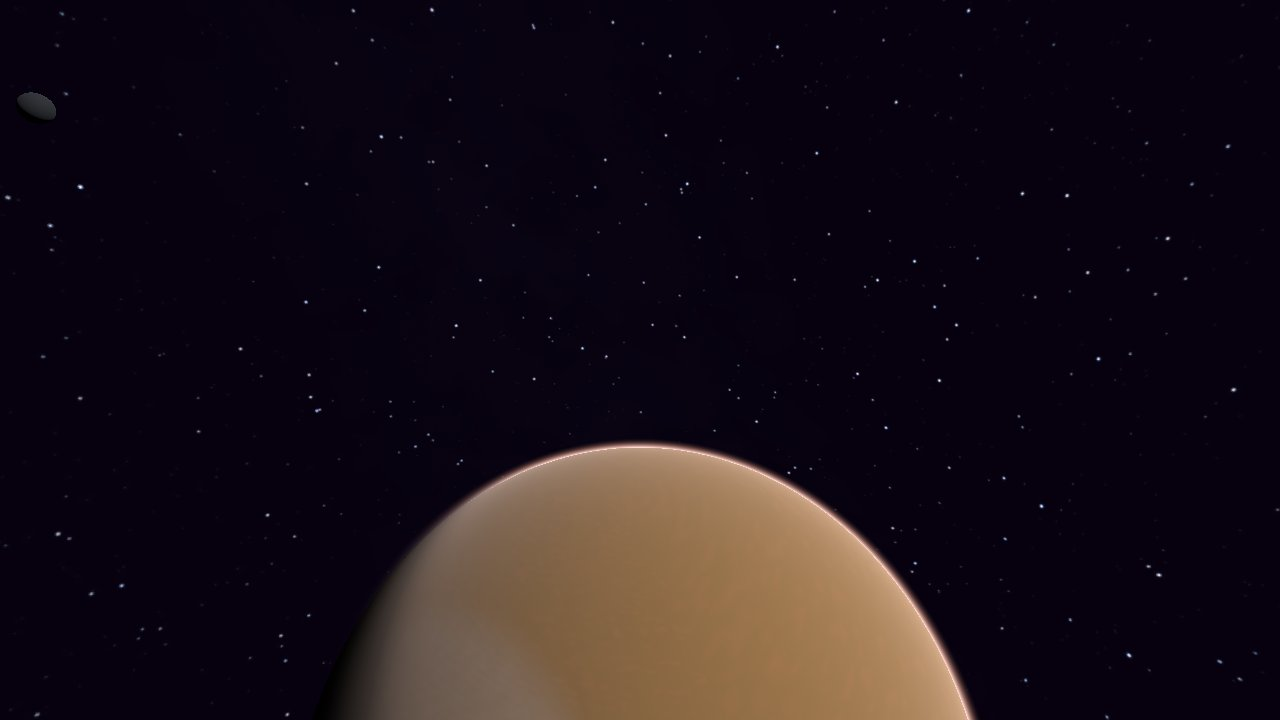
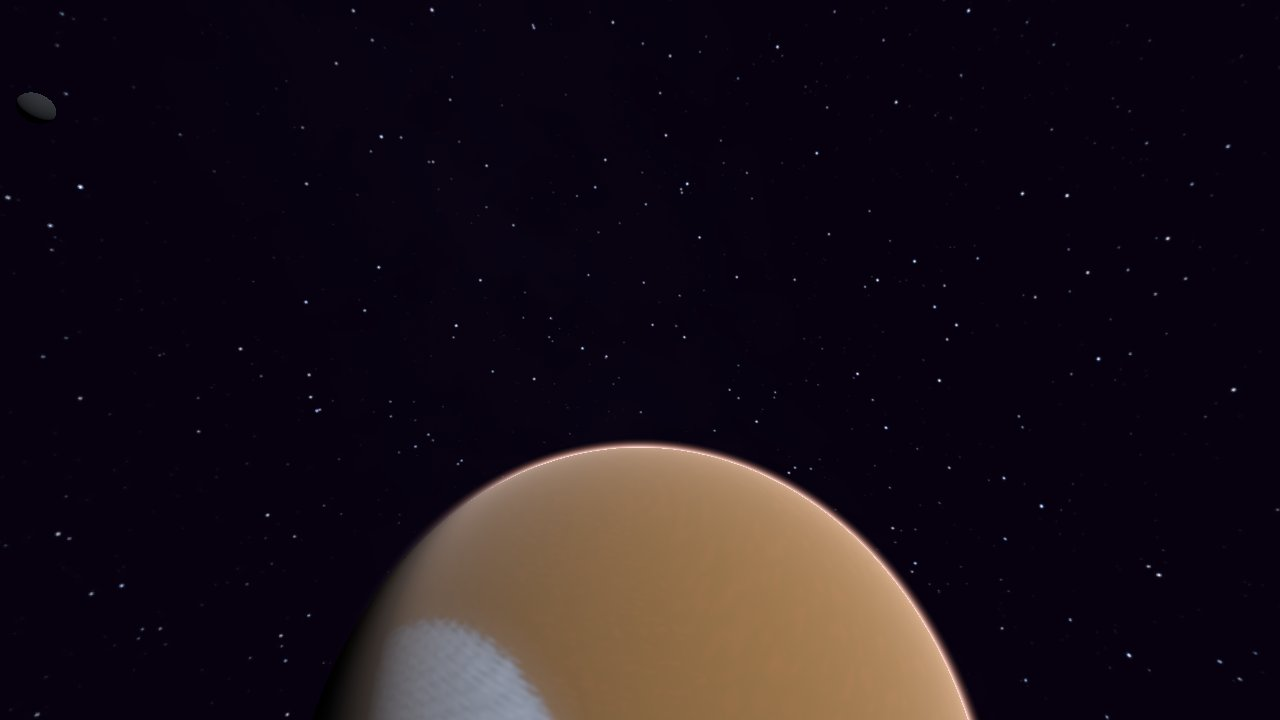
Polish: polar ice stays white from orbit; N13 report sections 10-11 (palette pass, bigger on the inside); ADR 0011 notes the owner's push decision
Full suite: 356 passed, 0 failed.

Claude-Session: https://claude.ai/code/session_01KVkUNEuEnzA3ZQcTXczkja

Changed region(s): [[0.2812, 0.8556, 0.4375, 1.0]]

diff --git a/docs/N13_GRAPHICS_PORT.md b/docs/N13_GRAPHICS_PORT.md
@@ -184,8 +184,49 @@ transmittance 1 - saturate(D - 1) * alpha (stars show through Jarilo's thin air,
 StarHalo, SunsetStarHalo, SunsetStarAngleBuffer and SunsetHorizonLimit come from its PlanetDef.
 - Sky (`space_sky.gdshader`): replaces the Sol two-colour gradient in the rodina style when in a planet's air.
 - From space (`rodina_atmosphere_shell.gdshader`): the same maths on a sphere the size of the atmosphere, added over
-  the scene with Rodina's transmittance. Over the ground the scatter is scaled to 0.35 (inferred, calibrated on the
-  owner's orbit screenshot: full strength washed the planet out to a flat disc).
+  the scene with Rodina's transmittance. Over the ground the density is now GroundAtmosphereAt's (§10); the earlier
+  0.35 scale is gone.
 - Fog thins with altitude again (the shader does the high-altitude haze).
 Not in the audit, so inferred: EaseOutSin's input clamp, which factor the halo/sunset use as the horizon term, and the
 shade samples' range. Shots: `docs/n13_shots/v5` (first pass), `v6`, `v7` (orbit calibrated).
+
+## 10. Palette pass against DeepSeek's measured Rodina frames (rodina style)
+
+Measured with `tools/palette_compare.py` against `docs/rodina_reference/palette_report.csv` (31 Rodina frames
+DeepSeek measured; HSV of the mean colour, four dominant colours). Shots: `docs/n13_shots/v8`.
+
+| What | Source | Kind |
+|---|---|---|
+| Sky and atmosphere shell composite in display space, then convert to linear | rendering_notes §6.6 (no gamma pass) | data |
+| Space under the sky: skybox base colour (0.025, 0, 0.05) | RodinaSkybox.fx:33 via rendering_notes §6.4 | data |
+| No whole-screen bloom (glow_bloom 0) | Rodina blooms only its emit buffer, rendering_notes §6.5-6.6 | data |
+| Haze over terrain seen from space: GroundAtmosphereAt | rendering_notes §4.4; AtmosphereGroundDistance per PlanetDef (Zosia 1.5, Veles 2.0, Jarilo unset = 1) | data + inferred combination |
+| Aurelia ground colours: JariloTerrain DiffuseColor x PlanetFeatureColor1a/1b | EGEditorData.lua:1277-1600, EGDataPlanets.lua:548-551 | data; the product is inferred |
+| Ground hue turned 15 degrees toward red | measured ground hue 26 vs ~40 from the data | calibrated |
+| Orbit colour #b07428 at 85 % blend (ice keeps its own colour) | measured orbit #aa7d4e (steam06) | calibrated |
+| Dark hull (x0.24), dark interior (x0.42), interior ambient 0.15 | measured ship/interior frames; SetAmbientLight(.05) EGSceneSolar.lua:28 | calibrated / data |
+| Ceiling lights White/Soft/Green/Wide/Emergency | EGDataItems.lua:212-260 | data; room assignment is Sol's |
+| HUD fonts Orbitron / Audiowide / Michroma, sizes and colours | Render/MenuFonts.lua (fonts: OFL, Google Fonts) | data |
+| Camera FOV 60 while the setting is at Sol's default | EGOptions.lua:26 | data; vertical FOV inferred |
+
+Results (Sol render vs Rodina frame, mean colour):
+
+| Scene | Sol | Rodina |
+|---|---|---|
+| Ground by the landed ship vs steam01_salmon_sky_mountains | (121, 92, 85), value 0.48 | (123, 92, 83), value 0.48 |
+| Lit planet from orbit (pixels on the disc) vs the dominant #aa7d4e | about (169, 131, 92) | (170, 125, 78) |
+| Ship against space vs videoT90_19_ship_silhouette (render from before the bloom/space-colour change) | value 0.12, hue 260 | value 0.13, hue 256 |
+| Interior cabin vs four interior frames (same earlier render) | value 0.13 | value 0.11-0.20 |
+
+Still off: the day sky is brighter and redder than Rodina's sky pixels (ours about (197, 115, 90) high up against
+#ae7b70 / #ba9996). Rodina's screen-space filter pass (RodinaAtmosphereFilter.fx, 628 bytes) probably explains it, but
+its source is not in the recovered files, so it is not ported.
+
+## 11. Bigger on the inside (ADR 0012)
+
+Rodina keeps the hull model and the walkable interior in separate files (EGDataShipPlayer.lua:7-9) and parents the
+player into the interior entity (EGGame.lua:335-340). Sol's version: the cabin, engineering and cargo are 11 m wide and
+the turret room 8 m, inside a 7.6 m hull. Those pocket rooms are drawn only while the camera is inside the ship, and
+the hull is hidden while the camera is in one; the cockpit and airlock fit in the hull and are always drawn; crew in
+pocket rooms are hidden from outside. Tests: `tests/unit/bigger_inside_test.gd`. Shot: `v8/pocket_cabin_across.jpg`.
+

diff --git a/docs/decisions/0011-rodina-graphics-port.md b/docs/decisions/0011-rodina-graphics-port.md
@@ -20,7 +20,8 @@ modules (`SetCameraVibrate`), and attaches named particle materials to named slo
 
 **Consequences.**
 - Rodina numbers and particle tables are in source files: owner-authorised local reference use, recorded in
-  ATTRIBUTION.md; like ADR 0010's audio they must not be published while the Sol repository is public.
+  ATTRIBUTION.md; like ADR 0010's audio they must not be published while the Sol repository is public. On 2026-10-20 the project owner chose to push the `n13-graphics-port` branch to the public
+  repository anyway (asked and answered in the N13 session).
 - In the `rodina` style the chase camera sits Rodina's (scaled) 54 m back instead of Sol's 17 m.
 - The emitter reading of Size/Yaw/Pitch/default blend and the sky colour roles need checking against real Rodina
   frames on the Mac.
